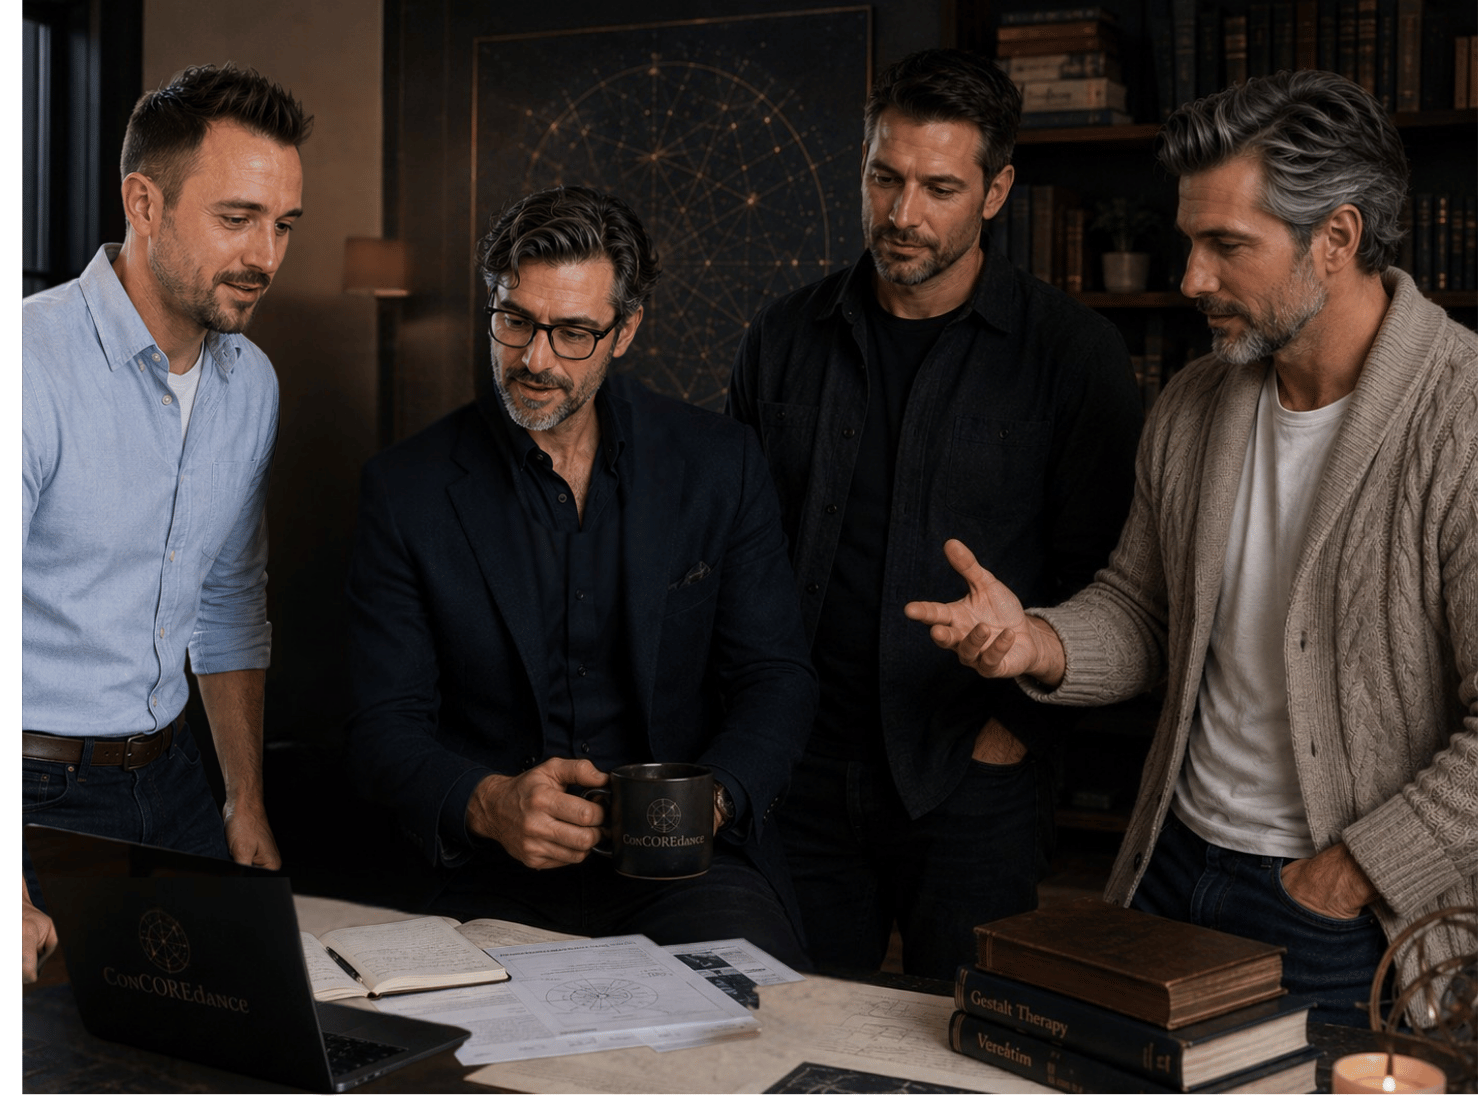
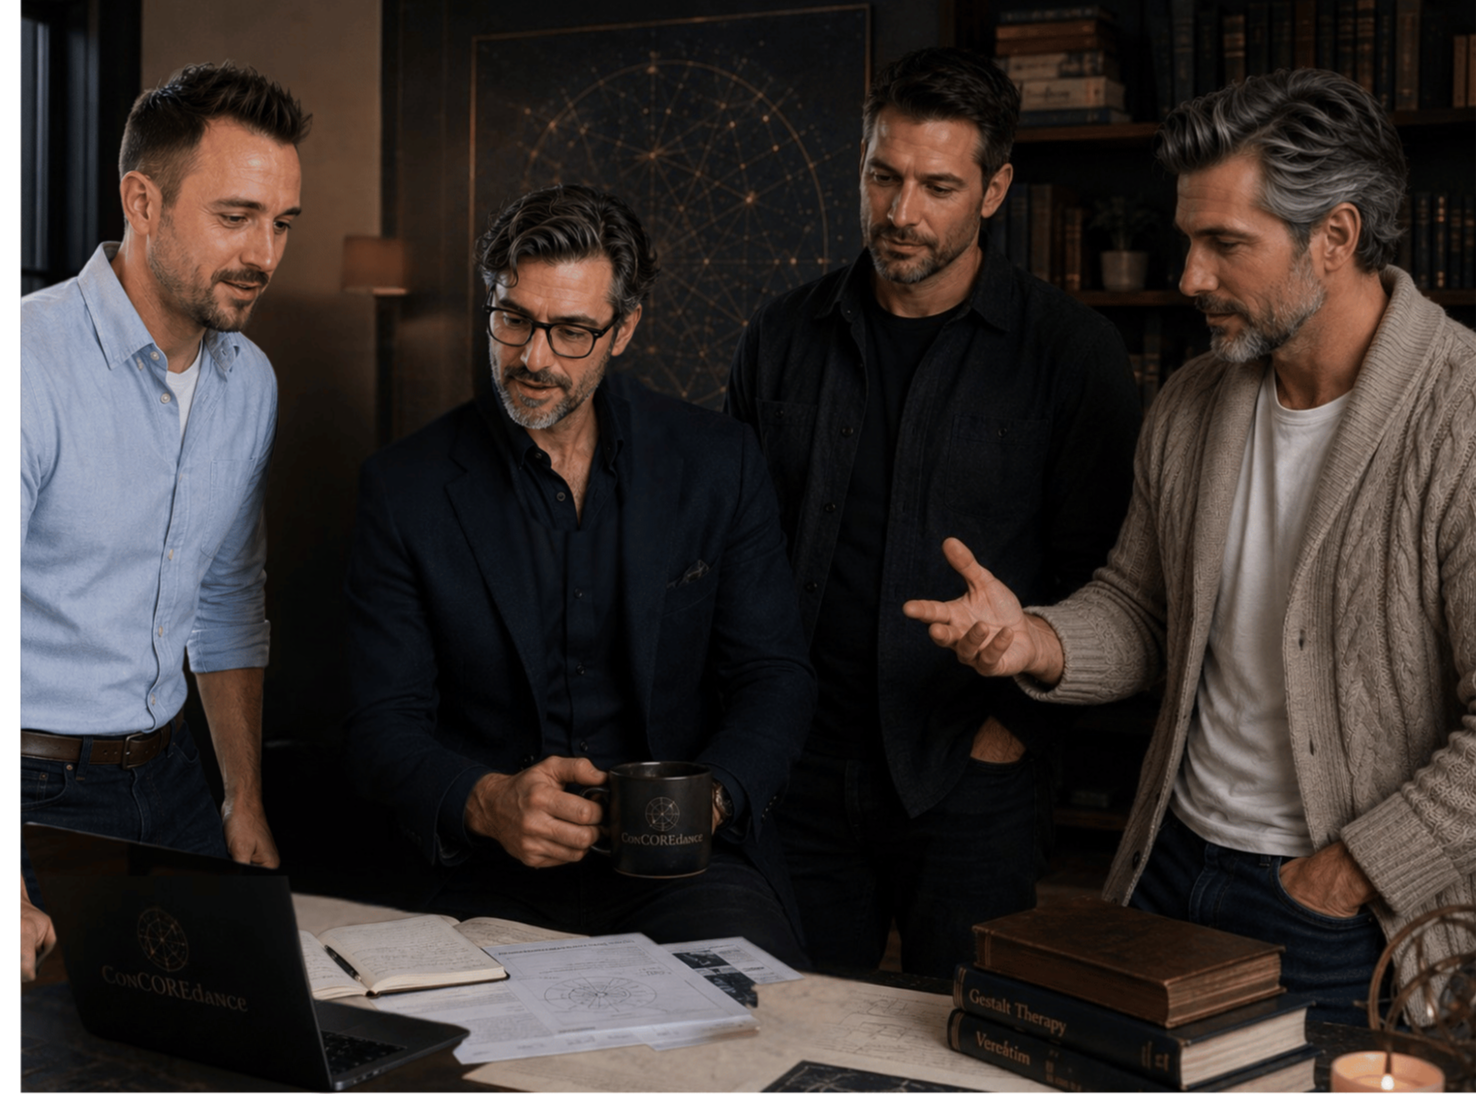
Refine team working session image layout

diff --git a/01_Transmission_Archive/team/index.html b/01_Transmission_Archive/team/index.html
@@ -203,19 +203,20 @@ body{
 }
 .session-layout{
   display:grid;
-  grid-template-columns:minmax(0,1.24fr) minmax(280px,.76fr);
+  grid-template-columns:1fr;
 }
 .session-image{
   position:relative;
   margin:0;
-  min-height:430px;
+  min-height:0;
+  aspect-ratio:16/9;
   background:#050914;
 }
 .session-image img{
   width:100%;
   height:100%;
   object-fit:cover;
-  object-position:center;
+  object-position:center 44%;
   display:block;
   filter:saturate(.88) contrast(1.03) brightness(.86);
 }
@@ -232,8 +233,8 @@ body{
   display:flex;
   flex-direction:column;
   justify-content:center;
-  padding:38px 40px;
-  border-left:1px solid rgba(255,255,255,.09);
+  padding:30px 40px 34px;
+  border-top:1px solid rgba(255,255,255,.09);
   background:linear-gradient(180deg,rgba(7,14,26,.72),rgba(5,9,20,.9));
 }
 .session-copy .label{margin:0 0 18px}
@@ -438,9 +439,7 @@ body{
   .topbar{align-items:flex-start;flex-direction:column}
   .nav{flex-wrap:wrap;gap:16px}
   .hero{padding:42px 30px}
-  .session-layout{grid-template-columns:1fr}
-  .session-image{min-height:360px}
-  .session-copy{border-left:0;border-top:1px solid rgba(255,255,255,.09)}
+  .session-image{aspect-ratio:4/3}
   .team-section{padding:24px}
   .team-grid,.primary-grid{grid-template-columns:1fr}
   .consultant-grid{grid-template-columns:1fr}
@@ -451,7 +450,7 @@ body{
   .page{width:min(100% - 20px,1180px);margin-top:14px}
   .team-card{grid-template-columns:1fr}
   .portrait-wrap{height:285px;border-right:0;border-bottom:1px solid rgba(255,255,255,.09)}
-  .session-image{min-height:260px}
+  .session-image{aspect-ratio:1/1}
   .session-copy{padding:26px}
   .session-copy h3{font-size:34px}
   .footer-band{grid-template-columns:1fr;padding:26px}